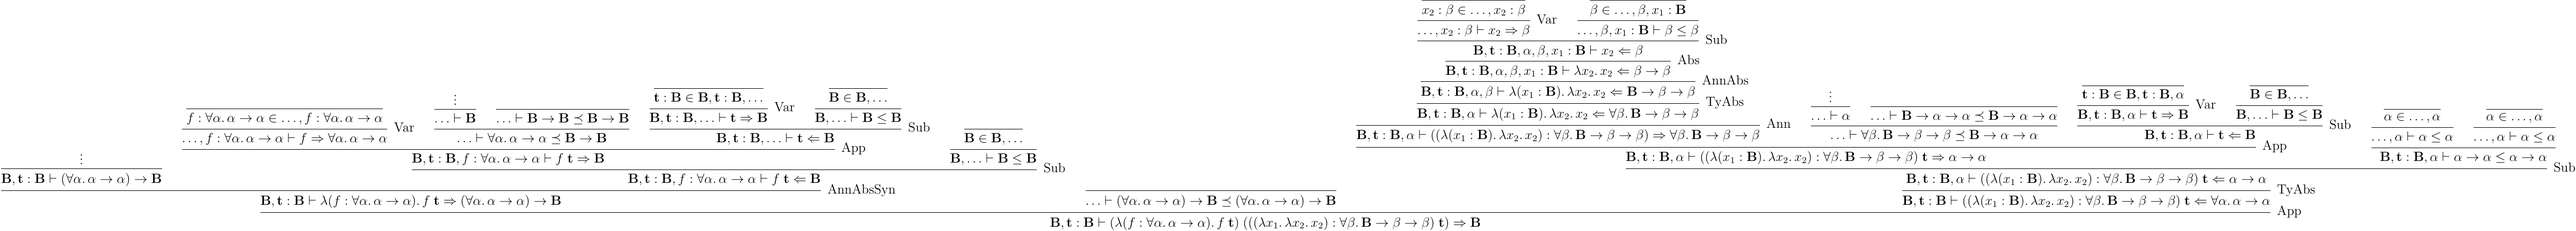
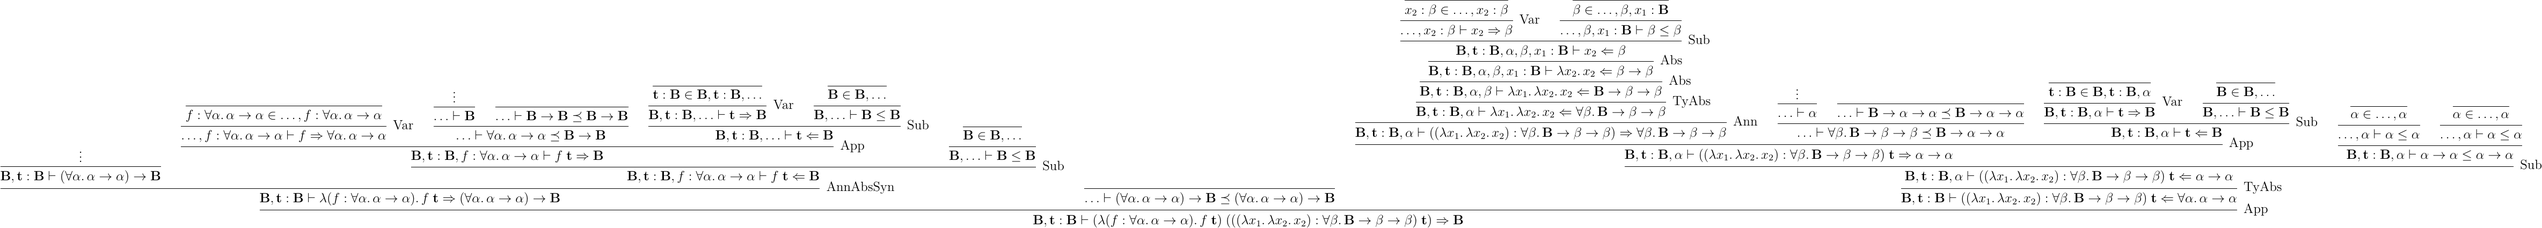
Fix some contents

diff --git a/content/articles/2023/03/bidirectional-typing/example-bidir-type-deriving.tex b/content/articles/2023/03/bidirectional-typing/example-bidir-type-deriving.tex
@@ -42,9 +42,9 @@
         \infer1{\ldots, \beta, x_1: \mathbf{B}\vdash \beta \leq \beta}
         \infer2[Sub]{\mathbf{B}, \mathbf{t}: \mathbf{B}, \alpha, \beta, x_1: \mathbf{B}\vdash x_2 \Leftarrow \beta}
         \infer1[Abs]{\mathbf{B}, \mathbf{t}: \mathbf{B}, \alpha, \beta, x_1: \mathbf{B}\vdash \lambda x_2\ldotp x_2 \Leftarrow \beta \to \beta}
-        \infer1[AnnAbs]{\mathbf{B}, \mathbf{t}: \mathbf{B}, \alpha, \beta\vdash \lambda (x_1: \mathbf{B})\ldotp \lambda x_2\ldotp x_2 \Leftarrow \mathbf{B} \to \beta \to \beta}
-        \infer1[TyAbs]{\mathbf{B}, \mathbf{t}: \mathbf{B}, \alpha\vdash \lambda (x_1: \mathbf{B})\ldotp \lambda x_2\ldotp x_2 \Leftarrow \forall \beta\ldotp \mathbf{B} \to \beta \to \beta}
-        \infer1[Ann]{\mathbf{B}, \mathbf{t}: \mathbf{B}, \alpha\vdash ((\lambda (x_1: \mathbf{B})\ldotp \lambda x_2\ldotp x_2): \forall \beta\ldotp \mathbf{B} \to \beta \to \beta) \Rightarrow \forall \beta\ldotp \mathbf{B} \to \beta \to \beta}
+        \infer1[Abs]{\mathbf{B}, \mathbf{t}: \mathbf{B}, \alpha, \beta\vdash \lambda x_1\ldotp \lambda x_2\ldotp x_2 \Leftarrow \mathbf{B} \to \beta \to \beta}
+        \infer1[TyAbs]{\mathbf{B}, \mathbf{t}: \mathbf{B}, \alpha\vdash \lambda x_1\ldotp \lambda x_2\ldotp x_2 \Leftarrow \forall \beta\ldotp \mathbf{B} \to \beta \to \beta}
+        \infer1[Ann]{\mathbf{B}, \mathbf{t}: \mathbf{B}, \alpha\vdash ((\lambda x_1\ldotp \lambda x_2\ldotp x_2): \forall \beta\ldotp \mathbf{B} \to \beta \to \beta) \Rightarrow \forall \beta\ldotp \mathbf{B} \to \beta \to \beta}
         \hypo{\vdots}
         \infer1{\ldots \vdash \alpha}
         \infer0{\ldots \vdash \mathbf{B} \to \alpha \to \alpha \preceq \mathbf{B} \to \alpha \to \alpha}
@@ -54,14 +54,14 @@
         \infer0{\mathbf{B} \in \mathbf{B}, \ldots}
         \infer1{\mathbf{B}, \ldots\vdash \mathbf{B} \leq \mathbf{B}}
         \infer2[Sub]{\mathbf{B}, \mathbf{t}: \mathbf{B}, \alpha\vdash \mathbf{t} \Leftarrow \mathbf{B}}
-        \infer3[App]{\mathbf{B}, \mathbf{t}: \mathbf{B}, \alpha\vdash ((\lambda (x_1: \mathbf{B})\ldotp \lambda x_2\ldotp x_2): \forall \beta\ldotp \mathbf{B} \to \beta \to \beta)\; \mathbf{t} \Rightarrow \alpha \to \alpha}
+        \infer3[App]{\mathbf{B}, \mathbf{t}: \mathbf{B}, \alpha\vdash ((\lambda x_1\ldotp \lambda x_2\ldotp x_2): \forall \beta\ldotp \mathbf{B} \to \beta \to \beta)\; \mathbf{t} \Rightarrow \alpha \to \alpha}
         \infer0{\alpha \in \ldots, \alpha}
         \infer1{\ldots, \alpha\vdash \alpha \leq \alpha}
         \infer0{\alpha \in \ldots, \alpha}
         \infer1{\ldots, \alpha\vdash \alpha \leq \alpha}
         \infer2{\mathbf{B}, \mathbf{t}: \mathbf{B}, \alpha\vdash \alpha \to \alpha \leq \alpha \to \alpha}
-        \infer2[Sub]{\mathbf{B}, \mathbf{t}: \mathbf{B}, \alpha\vdash ((\lambda (x_1: \mathbf{B})\ldotp \lambda x_2\ldotp x_2): \forall \beta\ldotp \mathbf{B} \to \beta \to \beta)\; \mathbf{t} \Leftarrow \alpha \to \alpha}
-        \infer1[TyAbs]{\mathbf{B}, \mathbf{t}: \mathbf{B}\vdash ((\lambda (x_1: \mathbf{B})\ldotp \lambda x_2\ldotp x_2): \forall \beta\ldotp \mathbf{B} \to \beta \to \beta)\; \mathbf{t} \Leftarrow \forall \alpha\ldotp \alpha \to \alpha}
+        \infer2[Sub]{\mathbf{B}, \mathbf{t}: \mathbf{B}, \alpha\vdash ((\lambda x_1\ldotp \lambda x_2\ldotp x_2): \forall \beta\ldotp \mathbf{B} \to \beta \to \beta)\; \mathbf{t} \Leftarrow \alpha \to \alpha}
+        \infer1[TyAbs]{\mathbf{B}, \mathbf{t}: \mathbf{B}\vdash ((\lambda x_1\ldotp \lambda x_2\ldotp x_2): \forall \beta\ldotp \mathbf{B} \to \beta \to \beta)\; \mathbf{t} \Leftarrow \forall \alpha\ldotp \alpha \to \alpha}
         \infer3[App]{\mathbf{B}, \mathbf{t}: \mathbf{B}\vdash (\lambda (f: \forall \alpha\ldotp \alpha \to \alpha)\ldotp f\; \mathbf{t})\; (((\lambda x_1\ldotp \lambda x_2\ldotp x_2): \forall \beta\ldotp \mathbf{B} \to \beta \to \beta)\; \mathbf{t}) \Rightarrow \mathbf{B}}
     \end{prooftree}
 \]
